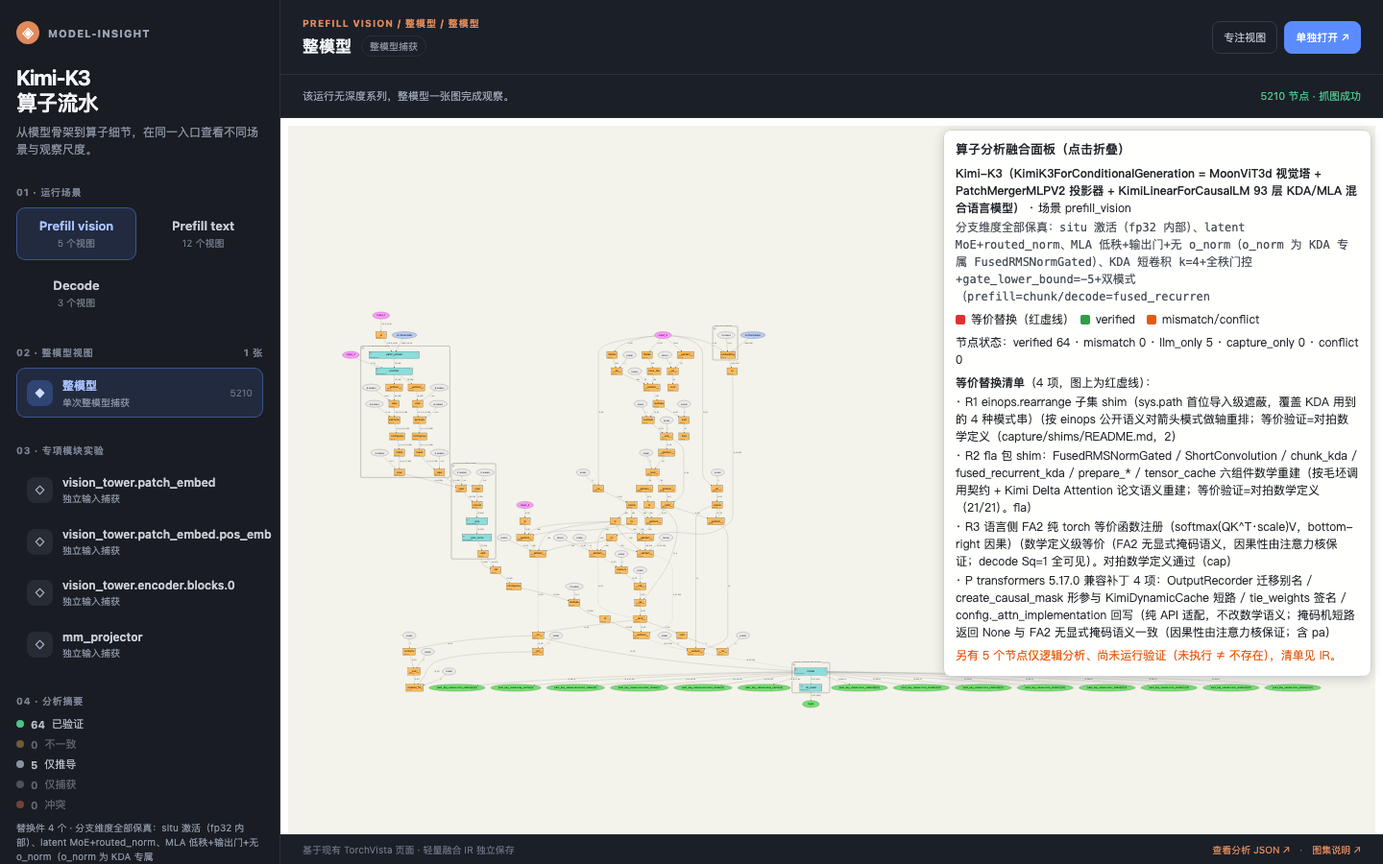
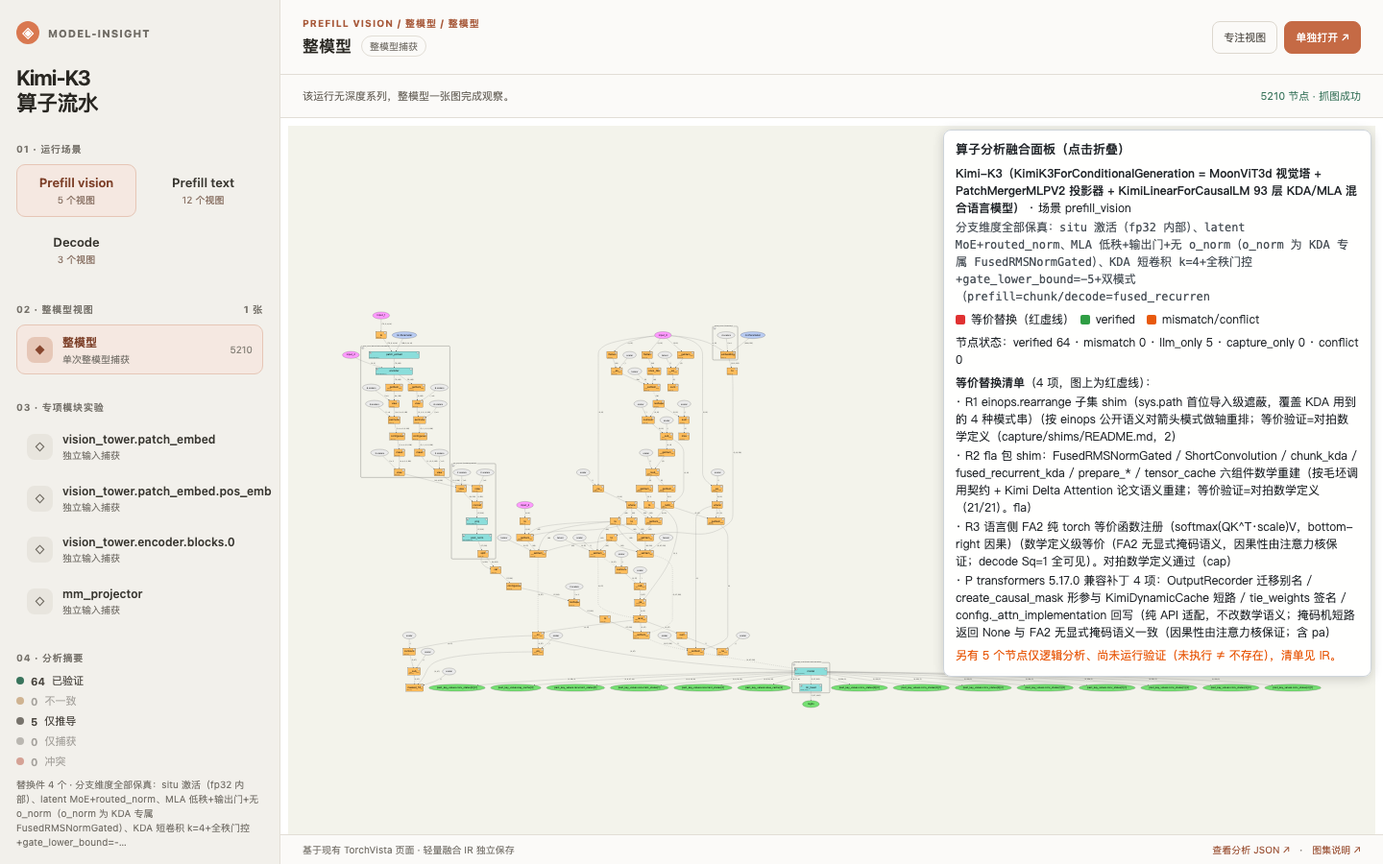
fix: 面板主题修正为 Claude 风格亮色（恢复手搓版定稿）
上一提交误将主题改判为暗色；用户定稿是 Codex demo 的亮色 Claude 风格。
render_index.py 主题部分整体恢复 d1aed61 版本（保留 dont_write_bytecode），
双面板重新生成——与 d1aed61 产物字节级一致（零漂移），tests 全绿，
preview.png 重截为亮色面板实际截图。

diff --git a/outputs/Kimi-K3/viz/index.html b/outputs/Kimi-K3/viz/index.html
@@ -5,8 +5,8 @@
 <meta name="viewport" content="width=device-width,initial-scale=1">
 <title>Kimi-K3 · 算子流水</title>
 <style>
-:root{font-family:Inter,-apple-system,BlinkMacSystemFont,"PingFang SC","Microsoft Yahei",sans-serif;color:#e8eaf0;background:#14161b;--panel:#191c22;--panel2:#20242c;--line:#2a2f3a;--muted:#8b93a3;--accent:#e08a5c;--blue:#5b8cff;--blue-soft:rgba(91,140,255,.13);--good:#4cc38a;--warn:#e0a35c}
-*{box-sizing:border-box}body{margin:0;min-height:100vh}button,a{font:inherit}button{cursor:pointer}a{color:inherit}.app{display:grid;grid-template-columns:292px minmax(0,1fr);height:100vh;min-height:580px}.rail{background:var(--panel);border-right:1px solid var(--line);overflow:auto;padding:22px 17px}.brand{display:flex;align-items:center;gap:9px;font-size:11px;letter-spacing:.09em;font-weight:750;color:#9aa3b5;text-transform:uppercase}.mark{width:24px;height:24px;display:grid;place-items:center;border-radius:50%;background:var(--accent);color:#fff;font-size:14px;letter-spacing:0}.rail h1{font-size:22px;line-height:1.2;letter-spacing:-.035em;margin:22px 0 8px;font-weight:650;color:#f2f4f8}.subtle{color:var(--muted);font-size:12px;line-height:1.55}.section{margin-top:27px}.section-head{display:flex;align-items:center;justify-content:space-between;color:#7a8294;font-size:10px;letter-spacing:.08em;font-weight:700;text-transform:uppercase;margin-bottom:9px}.tabs{display:grid;grid-template-columns:1fr 1fr;gap:7px}.tab,.item{border:1px solid transparent;background:transparent;color:#c8cdd8;border-radius:9px}.tab{padding:10px 7px;font-size:13px;font-weight:600}.tab:hover,.item:hover{background:#232833}.tab.active,.item.active{border-color:rgba(91,140,255,.45);background:var(--blue-soft);color:#a9c2ff;box-shadow:none}.tab small{display:block;font-size:10px;color:#6d7686;font-weight:450;margin-top:3px}.items{display:grid;gap:3px}.item{text-align:left;padding:9px 10px;display:flex;align-items:center;gap:10px;width:100%}.n{flex:0 0 27px;height:27px;border-radius:8px;display:grid;place-items:center;background:#262b34;color:#a8b0c0;font-size:12px;font-weight:650}.item.active .n{background:rgba(91,140,255,.28);color:#cddcff}.item strong{display:block;font-size:12px;font-weight:600}.item small{display:block;color:var(--muted);font-size:10px;margin-top:3px;line-height:1.25}.count{margin-left:auto;color:#6d7686;font-size:10px;white-space:nowrap}.empty{color:var(--muted);font-size:12px;border:1px dashed #3a404c;padding:12px;border-radius:9px}.stats{display:grid;gap:5px}.stat{display:flex;align-items:center;gap:7px;font-size:11px;color:#b6bdc9}.stat b{font-weight:650}.dot{width:8px;height:8px;border-radius:50%;flex:0 0 8px}.note{margin-top:9px;font-size:10px;line-height:1.5;color:var(--muted);cursor:help}.main{min-width:0;display:flex;flex-direction:column}.top{display:flex;justify-content:space-between;align-items:center;gap:14px;padding:17px 23px;border-bottom:1px solid var(--line);min-height:78px;background:#1b1f27}.eyebrow{color:var(--accent);font-size:10px;letter-spacing:.1em;text-transform:uppercase;font-weight:700}.heading{display:flex;align-items:center;gap:10px;margin-top:5px;flex-wrap:wrap}.heading h2{font-size:17px;margin:0;font-weight:620;color:#f2f4f8}.pill{border:1px solid var(--line);color:var(--muted);border-radius:50px;padding:3px 8px;font-size:10px}.topactions{display:flex;gap:7px;flex-shrink:0}.action{background:var(--blue);color:white;border:1px solid var(--blue);border-radius:8px;text-decoration:none;padding:8px 11px;font-size:11px}.action:hover{background:#6f9aff}.action.secondary{background:transparent;color:#b6bdc9;border-color:#343a46}.action.secondary:hover{background:#232833}.context{display:flex;gap:16px;align-items:center;justify-content:space-between;padding:10px 23px;border-bottom:1px solid var(--line);color:#9aa3b5;font-size:11px;min-height:45px;background:#1b1f27}.context .warning{color:var(--warn)}.context .good{color:var(--good)}.framewrap{position:relative;flex:1;min-height:0;background:#0f1115}.framewrap iframe{width:100%;height:100%;border:0;background:white}.loading{position:absolute;z-index:1;inset:0;display:grid;place-items:center;background:#0f1115;color:#7a8294;font-size:13px}.loading[hidden]{display:none}.foot{display:flex;justify-content:space-between;gap:12px;align-items:center;padding:8px 23px;border-top:1px solid var(--line);font-size:10px;color:#6d7686;background:#1b1f27}.foot a{color:var(--accent);text-decoration:none}.focused .rail{display:none}.focused .app{grid-template-columns:1fr}@media(max-width:850px){.app{grid-template-columns:1fr;height:auto;min-height:100vh}.rail{border-right:0;border-bottom:1px solid var(--line);max-height:290px;padding:14px}.rail h1{font-size:18px;margin:10px 0 3px}.rail .section{margin-top:14px}.items{grid-template-columns:repeat(2,minmax(0,1fr))}.item{padding:8px}.main{height:calc(100vh - 260px);min-height:450px}.top{padding:10px}.context,.foot{padding:8px 10px}.action{padding:7px}.topactions{gap:4px}}
+:root{font-family:Inter,-apple-system,BlinkMacSystemFont,"PingFang SC","Microsoft Yahei",sans-serif;color:#292722;background:#f8f7f4;--panel:#f2f0eb;--panel2:#ebe8e1;--line:#e2ded6;--muted:#77736c;--accent:#c56a45;--accent-soft:#f4e7df;--good:#39745c;--warn:#a66a26}
+*{box-sizing:border-box}body{margin:0;min-height:100vh}button,a{font:inherit}button{cursor:pointer}a{color:inherit}.app{display:grid;grid-template-columns:292px minmax(0,1fr);height:100vh;min-height:580px}.rail{background:var(--panel);border-right:1px solid var(--line);overflow:auto;padding:22px 17px}.brand{display:flex;align-items:center;gap:9px;font-size:11px;letter-spacing:.09em;font-weight:750;color:#716d66;text-transform:uppercase}.mark{width:24px;height:24px;display:grid;place-items:center;border-radius:50%;background:#d97850;color:#fff;font-size:14px;letter-spacing:0}.rail h1{font-size:22px;line-height:1.2;letter-spacing:-.035em;margin:22px 0 8px;font-weight:650}.subtle{color:var(--muted);font-size:12px;line-height:1.55}.section{margin-top:27px}.section-head{display:flex;align-items:center;justify-content:space-between;color:#77736c;font-size:10px;letter-spacing:.08em;font-weight:700;text-transform:uppercase;margin-bottom:9px}.tabs{display:grid;grid-template-columns:1fr 1fr;gap:7px}.tab,.item{border:1px solid transparent;background:transparent;color:#383630;border-radius:9px}.tab{padding:10px 7px;font-size:13px;font-weight:600}.tab:hover,.item:hover{background:#eae7e0}.tab.active,.item.active{border-color:#e6c6b6;background:#f5e8e1;color:#7d4029;box-shadow:none}.tab small{display:block;font-size:10px;color:#8f786b;font-weight:450;margin-top:3px}.items{display:grid;gap:3px}.item{text-align:left;padding:9px 10px;display:flex;align-items:center;gap:10px;width:100%}.n{flex:0 0 27px;height:27px;border-radius:8px;display:grid;place-items:center;background:#e8e5de;color:#706b62;font-size:12px;font-weight:650}.item.active .n{background:#e6c7b7;color:#87462e}.item strong{display:block;font-size:12px;font-weight:600}.item small{display:block;color:var(--muted);font-size:10px;margin-top:3px;line-height:1.25}.count{margin-left:auto;color:#8a857c;font-size:10px;white-space:nowrap}.empty{color:var(--muted);font-size:12px;border:1px dashed #d7d1c7;padding:12px;border-radius:9px}.stats{display:grid;gap:5px}.stat{display:flex;align-items:center;gap:7px;font-size:11px;color:#4c4842}.stat b{font-weight:650}.dot{width:8px;height:8px;border-radius:50%;flex:0 0 8px}.note{margin-top:9px;font-size:10px;line-height:1.5;color:var(--muted);cursor:help}.main{min-width:0;display:flex;flex-direction:column}.top{display:flex;justify-content:space-between;align-items:center;gap:14px;padding:17px 23px;border-bottom:1px solid var(--line);min-height:78px;background:#fbfaf8}.eyebrow{color:#a85a3b;font-size:10px;letter-spacing:.1em;text-transform:uppercase;font-weight:700}.heading{display:flex;align-items:center;gap:10px;margin-top:5px;flex-wrap:wrap}.heading h2{font-size:17px;margin:0;font-weight:620}.pill{border:1px solid #e2ded6;color:#77736c;border-radius:50px;padding:3px 8px;font-size:10px}.topactions{display:flex;gap:7px;flex-shrink:0}.action{background:#c56a45;color:white;border:1px solid #c56a45;border-radius:8px;text-decoration:none;padding:8px 11px;font-size:11px}.action:hover{background:#ad5938}.action.secondary{background:transparent;color:#57534d;border-color:#ddd8cf}.action.secondary:hover{background:#f0eee9}.context{display:flex;gap:16px;align-items:center;justify-content:space-between;padding:10px 23px;border-bottom:1px solid var(--line);color:#6e6961;font-size:11px;min-height:45px;background:#fbfaf8}.context .warning{color:var(--warn)}.context .good{color:var(--good)}.framewrap{position:relative;flex:1;min-height:0;background:#f0f1f2}.framewrap iframe{width:100%;height:100%;border:0;background:white}.loading{position:absolute;z-index:1;inset:0;display:grid;place-items:center;background:#f0f1f2;color:#686d72;font-size:13px}.loading[hidden]{display:none}.foot{display:flex;justify-content:space-between;gap:12px;align-items:center;padding:8px 23px;border-top:1px solid var(--line);font-size:10px;color:var(--muted);background:#fbfaf8}.foot a{color:#9e573b;text-decoration:none}.focused .rail{display:none}.focused .app{grid-template-columns:1fr}@media(max-width:850px){.app{grid-template-columns:1fr;height:auto;min-height:100vh}.rail{border-right:0;border-bottom:1px solid var(--line);max-height:290px;padding:14px}.rail h1{font-size:18px;margin:10px 0 3px}.rail .section{margin-top:14px}.items{grid-template-columns:repeat(2,minmax(0,1fr))}.item{padding:8px}.main{height:calc(100vh - 260px);min-height:450px}.top{padding:10px}.context,.foot{padding:8px 10px}.action{padding:7px}.topactions{gap:4px}}
 </style>
 </head>
 <body>
@@ -14,7 +14,6 @@
 <aside class="rail" aria-label="视图导航">
   <div class="brand"><span class="mark">◈</span> Model-Insight</div>
   <h1>Kimi-K3<br>算子流水</h1>
-  <div class="subtle">从模型骨架到算子细节，在同一入口查看不同场景与观察尺度。</div>
   <section class="section"><div class="section-head">01 · 运行场景</div><div class="tabs" id="scenarios"></div></section>
   <section class="section"><div class="section-head">02 · 整模型视图 <span id="depthCount"></span></div><div class="items" id="depths"></div></section>
   <section class="section"><div class="section-head">03 · 专项模块实验</div><div class="items" id="modules"></div></section>
@@ -30,7 +29,7 @@
 const VIEWS=[{"id":"macro_prefill_vision","file":"macro_prefill_vision.html","kind":"macro","scenario":"prefill_vision","depth":null,"target":null,"title":"整模型","nodes":5210,"status":"ok"},{"id":"macro_prefill_text","file":"macro_prefill_text.html","kind":"macro","scenario":"prefill_text","depth":null,"target":null,"title":"整模型","nodes":2528,"status":"ok"},{"id":"macro_decode","file":"macro_decode.html","kind":"macro","scenario":"decode","depth":null,"target":null,"title":"整模型","nodes":1444,"status":"ok"},{"id":"micro_vit_patch_embed","file":"micro_vit_patch_embed.html","kind":"micro","scenario":"prefill_vision","depth":0,"target":"vision_tower.patch_embed","title":"vision_tower.patch_embed","nodes":31,"status":"ok"},{"id":"micro_vit_pos_emb","file":"micro_vit_pos_emb.html","kind":"micro","scenario":"prefill_vision","depth":0,"target":"vision_tower.patch_embed.pos_emb","title":"vision_tower.patch_embed.pos_emb","nodes":16,"status":"ok"},{"id":"micro_vit_layer0","file":"micro_vit_layer0.html","kind":"micro","scenario":"prefill_vision","depth":0,"target":"vision_tower.encoder.blocks.0","title":"vision_tower.encoder.blocks.0","nodes":84,"status":"ok"},{"id":"micro_projector","file":"micro_projector.html","kind":"micro","scenario":"prefill_vision","depth":0,"target":"mm_projector","title":"mm_projector","nodes":18,"status":"ok"},{"id":"micro_layer_kda0","file":"micro_layer_kda0.html","kind":"micro","scenario":"prefill_text","depth":0,"target":"language_model.model.layers.0","title":"language_model.model.layers.0","nodes":612,"status":"ok"},{"id":"micro_layer_kda_moe1","file":"micro_layer_kda_moe1.html","kind":"micro","scenario":"prefill_text","depth":0,"target":"language_model.model.layers.1","title":"language_model.model.layers.1","nodes":810,"status":"ok"},{"id":"micro_layer_mla3","file":"micro_layer_mla3.html","kind":"micro","scenario":"prefill_text","depth":0,"target":"language_model.model.layers.3","title":"language_model.model.layers.3","nodes":374,"status":"ok"},{"id":"micro_attn_kda","file":"micro_attn_kda.html","kind":"micro","scenario":"prefill_text","depth":0,"target":"language_model.model.layers.0.self_attn","title":"language_model.model.layers.0.self_attn","nodes":521,"status":"ok"},{"id":"micro_attn_mla","file":"micro_attn_mla.html","kind":"micro","scenario":"prefill_text","depth":0,"target":"language_model.model.layers.3.self_attn","title":"language_model.model.layers.3.self_attn","nodes":85,"status":"ok"},{"id":"micro_attn_kda_decode","file":"micro_attn_kda_decode.html","kind":"micro","scenario":"decode","depth":0,"target":"language_model.model.layers.0.self_attn","title":"language_model.model.layers.0.self_attn","nodes":162,"status":"ok"},{"id":"micro_attn_mla_decode","file":"micro_attn_mla_decode.html","kind":"micro","scenario":"decode","depth":0,"target":"language_model.model.layers.3.self_attn","title":"language_model.model.layers.3.self_attn","nodes":89,"status":"ok"},{"id":"micro_moe_gate","file":"micro_moe_gate.html","kind":"micro","scenario":"prefill_text","depth":0,"target":"language_model.model.layers.1.block_sparse_moe.gate","title":"language_model.model.layers.1.block_sparse_moe.gate","nodes":25,"status":"ok"},{"id":"micro_expert0","file":"micro_expert0.html","kind":"micro","scenario":"prefill_text","depth":0,"target":"language_model.model.layers.1.block_sparse_moe.experts.0","title":"language_model.model.layers.1.block_sparse_moe.experts.0","nodes":27,"status":"ok"},{"id":"micro_mlp_dense","file":"micro_mlp_dense.html","kind":"micro","scenario":"prefill_text","depth":0,"target":"language_model.model.layers.0.mlp","title":"language_model.model.layers.0.mlp","nodes":27,"status":"ok"},{"id":"micro_embed","file":"micro_embed.html","kind":"micro","scenario":"prefill_text","depth":0,"target":"language_model.model.embed_tokens","title":"language_model.model.embed_tokens","nodes":5,"status":"ok"},{"id":"micro_norm","file":"micro_norm.html","kind":"micro","scenario":"prefill_text","depth":0,"target":"language_model.model.norm","title":"language_model.model.norm","nodes":14,"status":"ok"},{"id":"micro_lm_head","file":"micro_lm_head.html","kind":"micro","scenario":"prefill_text","depth":0,"target":"language_model.lm_head","title":"language_model.lm_head","nodes":4,"status":"ok"}];
 const DETAILS={"depthnull":{"title":"整模型","description":"单次整模型捕获","long":"该运行无深度系列，整模型一张图完成观察。"},"micro_vit_patch_embed":{"title":"vision_tower.patch_embed","description":"独立输入捕获","long":"使用单独构造的输入捕获 vision_tower.patch_embed；与整模型视图分别产生。"},"micro_vit_pos_emb":{"title":"vision_tower.patch_embed.pos_emb","description":"独立输入捕获","long":"使用单独构造的输入捕获 vision_tower.patch_embed.pos_emb；与整模型视图分别产生。"},"micro_vit_layer0":{"title":"vision_tower.encoder.blocks.0","description":"独立输入捕获","long":"使用单独构造的输入捕获 vision_tower.encoder.blocks.0；与整模型视图分别产生。"},"micro_projector":{"title":"mm_projector","description":"独立输入捕获","long":"使用单独构造的输入捕获 mm_projector；与整模型视图分别产生。"},"micro_layer_kda0":{"title":"language_model.model.layers.0","description":"独立输入捕获","long":"使用单独构造的输入捕获 language_model.model.layers.0；与整模型视图分别产生。"},"micro_layer_kda_moe1":{"title":"language_model.model.layers.1","description":"独立输入捕获","long":"使用单独构造的输入捕获 language_model.model.layers.1；与整模型视图分别产生。"},"micro_layer_mla3":{"title":"language_model.model.layers.3","description":"独立输入捕获","long":"使用单独构造的输入捕获 language_model.model.layers.3；与整模型视图分别产生。"},"micro_attn_kda":{"title":"language_model.model.layers.0.self_attn","description":"独立输入捕获","long":"使用单独构造的输入捕获 language_model.model.layers.0.self_attn；与整模型视图分别产生。"},"micro_attn_mla":{"title":"language_model.model.layers.3.self_attn","description":"独立输入捕获","long":"使用单独构造的输入捕获 language_model.model.layers.3.self_attn；与整模型视图分别产生。"},"micro_attn_kda_decode":{"title":"language_model.model.layers.0.self_attn","description":"独立输入捕获","long":"使用单独构造的输入捕获 language_model.model.layers.0.self_attn；与整模型视图分别产生。"},"micro_attn_mla_decode":{"title":"language_model.model.layers.3.self_attn","description":"独立输入捕获","long":"使用单独构造的输入捕获 language_model.model.layers.3.self_attn；与整模型视图分别产生。"},"micro_moe_gate":{"title":"language_model.model.layers.1.block_sparse_moe.gate","description":"独立输入捕获","long":"使用单独构造的输入捕获 language_model.model.layers.1.block_sparse_moe.gate；与整模型视图分别产生。"},"micro_expert0":{"title":"language_model.model.layers.1.block_sparse_moe.experts.0","description":"独立输入捕获","long":"使用单独构造的输入捕获 language_model.model.layers.1.block_sparse_moe.experts.0；与整模型视图分别产生。"},"micro_mlp_dense":{"title":"language_model.model.layers.0.mlp","description":"独立输入捕获","long":"使用单独构造的输入捕获 language_model.model.layers.0.mlp；与整模型视图分别产生。"},"micro_embed":{"title":"language_model.model.embed_tokens","description":"独立输入捕获","long":"使用单独构造的输入捕获 language_model.model.embed_tokens；与整模型视图分别产生。"},"micro_norm":{"title":"language_model.model.norm","description":"独立输入捕获","long":"使用单独构造的输入捕获 language_model.model.norm；与整模型视图分别产生。"},"micro_lm_head":{"title":"language_model.lm_head","description":"独立输入捕获","long":"使用单独构造的输入捕获 language_model.lm_head；与整模型视图分别产生。"}};
 const SUMMARY={"statuses":{"verified":64,"mismatch":0,"llm_only":5,"capture_only":0,"conflict":0},"totalNodes":69,"replacementCount":4,"replacementsFull":"· R1 einops.rearrange 子集 shim（sys.path 首位导入级遮蔽，覆盖 KDA 用到的 4 种模式串）\n· R2 fla 包 shim：FusedRMSNormGated / ShortConvolution / chunk_kda / fused_recurrent_kda / prepare_* / tensor_cache 六组件数学重建\n· R3 语言侧 FA2 纯 torch 等价函数注册（softmax(QK^T·scale)V，bottom-right 因果）\n· P transformers 5.17.0 兼容补丁 4 项：OutputRecorder 迁移别名 / create_causal_mask 形参与 KimiDynamicCache 短路 / tie_weights 签名 / config._attn_implementation 回写","scaleNote":"分支维度全部保真：situ 激活（fp32 内部）、latent MoE+routed_norm、MLA 低秩+输出门+无 o_norm（o_norm 为 KDA 专属 FusedRMSNormGated）、KDA 短卷积 k=4+全秩门控+gate_lower_bound=-…"};
-const STATUS_META=[["verified","已验证","#4cc38a"],["mismatch","不一致","#e0a35c"],["llm_only","仅推导","#8b93a3"],["capture_only","仅捕获","#8b93a3"],["conflict","冲突","#e06c5c"]];
+const STATUS_META=[["verified","已验证","#39745c"],["mismatch","不一致","#a66a26"],["llm_only","仅推导","#77736c"],["capture_only","仅捕获","#77736c"],["conflict","冲突","#b3452f"]];
 const $=id=>document.getElementById(id);
 const byId=Object.fromEntries(VIEWS.map(v=>[v.id,v]));
 const SCENARIOS=[...new Set(VIEWS.map(v=>v.scenario))].map(s=>({key:s,label:s.charAt(0).toUpperCase()+s.slice(1).replace(/_/g,' '),count:VIEWS.filter(v=>v.scenario===s).length}));

diff --git a/outputs/DeepSeek-V3.2/viz/index.html b/outputs/DeepSeek-V3.2/viz/index.html
@@ -5,8 +5,8 @@
 <meta name="viewport" content="width=device-width,initial-scale=1">
 <title>DeepSeek-V3.2 · 算子流水</title>
 <style>
-:root{font-family:Inter,-apple-system,BlinkMacSystemFont,"PingFang SC","Microsoft Yahei",sans-serif;color:#e8eaf0;background:#14161b;--panel:#191c22;--panel2:#20242c;--line:#2a2f3a;--muted:#8b93a3;--accent:#e08a5c;--blue:#5b8cff;--blue-soft:rgba(91,140,255,.13);--good:#4cc38a;--warn:#e0a35c}
-*{box-sizing:border-box}body{margin:0;min-height:100vh}button,a{font:inherit}button{cursor:pointer}a{color:inherit}.app{display:grid;grid-template-columns:292px minmax(0,1fr);height:100vh;min-height:580px}.rail{background:var(--panel);border-right:1px solid var(--line);overflow:auto;padding:22px 17px}.brand{display:flex;align-items:center;gap:9px;font-size:11px;letter-spacing:.09em;font-weight:750;color:#9aa3b5;text-transform:uppercase}.mark{width:24px;height:24px;display:grid;place-items:center;border-radius:50%;background:var(--accent);color:#fff;font-size:14px;letter-spacing:0}.rail h1{font-size:22px;line-height:1.2;letter-spacing:-.035em;margin:22px 0 8px;font-weight:650;color:#f2f4f8}.subtle{color:var(--muted);font-size:12px;line-height:1.55}.section{margin-top:27px}.section-head{display:flex;align-items:center;justify-content:space-between;color:#7a8294;font-size:10px;letter-spacing:.08em;font-weight:700;text-transform:uppercase;margin-bottom:9px}.tabs{display:grid;grid-template-columns:1fr 1fr;gap:7px}.tab,.item{border:1px solid transparent;background:transparent;color:#c8cdd8;border-radius:9px}.tab{padding:10px 7px;font-size:13px;font-weight:600}.tab:hover,.item:hover{background:#232833}.tab.active,.item.active{border-color:rgba(91,140,255,.45);background:var(--blue-soft);color:#a9c2ff;box-shadow:none}.tab small{display:block;font-size:10px;color:#6d7686;font-weight:450;margin-top:3px}.items{display:grid;gap:3px}.item{text-align:left;padding:9px 10px;display:flex;align-items:center;gap:10px;width:100%}.n{flex:0 0 27px;height:27px;border-radius:8px;display:grid;place-items:center;background:#262b34;color:#a8b0c0;font-size:12px;font-weight:650}.item.active .n{background:rgba(91,140,255,.28);color:#cddcff}.item strong{display:block;font-size:12px;font-weight:600}.item small{display:block;color:var(--muted);font-size:10px;margin-top:3px;line-height:1.25}.count{margin-left:auto;color:#6d7686;font-size:10px;white-space:nowrap}.empty{color:var(--muted);font-size:12px;border:1px dashed #3a404c;padding:12px;border-radius:9px}.stats{display:grid;gap:5px}.stat{display:flex;align-items:center;gap:7px;font-size:11px;color:#b6bdc9}.stat b{font-weight:650}.dot{width:8px;height:8px;border-radius:50%;flex:0 0 8px}.note{margin-top:9px;font-size:10px;line-height:1.5;color:var(--muted);cursor:help}.main{min-width:0;display:flex;flex-direction:column}.top{display:flex;justify-content:space-between;align-items:center;gap:14px;padding:17px 23px;border-bottom:1px solid var(--line);min-height:78px;background:#1b1f27}.eyebrow{color:var(--accent);font-size:10px;letter-spacing:.1em;text-transform:uppercase;font-weight:700}.heading{display:flex;align-items:center;gap:10px;margin-top:5px;flex-wrap:wrap}.heading h2{font-size:17px;margin:0;font-weight:620;color:#f2f4f8}.pill{border:1px solid var(--line);color:var(--muted);border-radius:50px;padding:3px 8px;font-size:10px}.topactions{display:flex;gap:7px;flex-shrink:0}.action{background:var(--blue);color:white;border:1px solid var(--blue);border-radius:8px;text-decoration:none;padding:8px 11px;font-size:11px}.action:hover{background:#6f9aff}.action.secondary{background:transparent;color:#b6bdc9;border-color:#343a46}.action.secondary:hover{background:#232833}.context{display:flex;gap:16px;align-items:center;justify-content:space-between;padding:10px 23px;border-bottom:1px solid var(--line);color:#9aa3b5;font-size:11px;min-height:45px;background:#1b1f27}.context .warning{color:var(--warn)}.context .good{color:var(--good)}.framewrap{position:relative;flex:1;min-height:0;background:#0f1115}.framewrap iframe{width:100%;height:100%;border:0;background:white}.loading{position:absolute;z-index:1;inset:0;display:grid;place-items:center;background:#0f1115;color:#7a8294;font-size:13px}.loading[hidden]{display:none}.foot{display:flex;justify-content:space-between;gap:12px;align-items:center;padding:8px 23px;border-top:1px solid var(--line);font-size:10px;color:#6d7686;background:#1b1f27}.foot a{color:var(--accent);text-decoration:none}.focused .rail{display:none}.focused .app{grid-template-columns:1fr}@media(max-width:850px){.app{grid-template-columns:1fr;height:auto;min-height:100vh}.rail{border-right:0;border-bottom:1px solid var(--line);max-height:290px;padding:14px}.rail h1{font-size:18px;margin:10px 0 3px}.rail .section{margin-top:14px}.items{grid-template-columns:repeat(2,minmax(0,1fr))}.item{padding:8px}.main{height:calc(100vh - 260px);min-height:450px}.top{padding:10px}.context,.foot{padding:8px 10px}.action{padding:7px}.topactions{gap:4px}}
+:root{font-family:Inter,-apple-system,BlinkMacSystemFont,"PingFang SC","Microsoft Yahei",sans-serif;color:#292722;background:#f8f7f4;--panel:#f2f0eb;--panel2:#ebe8e1;--line:#e2ded6;--muted:#77736c;--accent:#c56a45;--accent-soft:#f4e7df;--good:#39745c;--warn:#a66a26}
+*{box-sizing:border-box}body{margin:0;min-height:100vh}button,a{font:inherit}button{cursor:pointer}a{color:inherit}.app{display:grid;grid-template-columns:292px minmax(0,1fr);height:100vh;min-height:580px}.rail{background:var(--panel);border-right:1px solid var(--line);overflow:auto;padding:22px 17px}.brand{display:flex;align-items:center;gap:9px;font-size:11px;letter-spacing:.09em;font-weight:750;color:#716d66;text-transform:uppercase}.mark{width:24px;height:24px;display:grid;place-items:center;border-radius:50%;background:#d97850;color:#fff;font-size:14px;letter-spacing:0}.rail h1{font-size:22px;line-height:1.2;letter-spacing:-.035em;margin:22px 0 8px;font-weight:650}.subtle{color:var(--muted);font-size:12px;line-height:1.55}.section{margin-top:27px}.section-head{display:flex;align-items:center;justify-content:space-between;color:#77736c;font-size:10px;letter-spacing:.08em;font-weight:700;text-transform:uppercase;margin-bottom:9px}.tabs{display:grid;grid-template-columns:1fr 1fr;gap:7px}.tab,.item{border:1px solid transparent;background:transparent;color:#383630;border-radius:9px}.tab{padding:10px 7px;font-size:13px;font-weight:600}.tab:hover,.item:hover{background:#eae7e0}.tab.active,.item.active{border-color:#e6c6b6;background:#f5e8e1;color:#7d4029;box-shadow:none}.tab small{display:block;font-size:10px;color:#8f786b;font-weight:450;margin-top:3px}.items{display:grid;gap:3px}.item{text-align:left;padding:9px 10px;display:flex;align-items:center;gap:10px;width:100%}.n{flex:0 0 27px;height:27px;border-radius:8px;display:grid;place-items:center;background:#e8e5de;color:#706b62;font-size:12px;font-weight:650}.item.active .n{background:#e6c7b7;color:#87462e}.item strong{display:block;font-size:12px;font-weight:600}.item small{display:block;color:var(--muted);font-size:10px;margin-top:3px;line-height:1.25}.count{margin-left:auto;color:#8a857c;font-size:10px;white-space:nowrap}.empty{color:var(--muted);font-size:12px;border:1px dashed #d7d1c7;padding:12px;border-radius:9px}.stats{display:grid;gap:5px}.stat{display:flex;align-items:center;gap:7px;font-size:11px;color:#4c4842}.stat b{font-weight:650}.dot{width:8px;height:8px;border-radius:50%;flex:0 0 8px}.note{margin-top:9px;font-size:10px;line-height:1.5;color:var(--muted);cursor:help}.main{min-width:0;display:flex;flex-direction:column}.top{display:flex;justify-content:space-between;align-items:center;gap:14px;padding:17px 23px;border-bottom:1px solid var(--line);min-height:78px;background:#fbfaf8}.eyebrow{color:#a85a3b;font-size:10px;letter-spacing:.1em;text-transform:uppercase;font-weight:700}.heading{display:flex;align-items:center;gap:10px;margin-top:5px;flex-wrap:wrap}.heading h2{font-size:17px;margin:0;font-weight:620}.pill{border:1px solid #e2ded6;color:#77736c;border-radius:50px;padding:3px 8px;font-size:10px}.topactions{display:flex;gap:7px;flex-shrink:0}.action{background:#c56a45;color:white;border:1px solid #c56a45;border-radius:8px;text-decoration:none;padding:8px 11px;font-size:11px}.action:hover{background:#ad5938}.action.secondary{background:transparent;color:#57534d;border-color:#ddd8cf}.action.secondary:hover{background:#f0eee9}.context{display:flex;gap:16px;align-items:center;justify-content:space-between;padding:10px 23px;border-bottom:1px solid var(--line);color:#6e6961;font-size:11px;min-height:45px;background:#fbfaf8}.context .warning{color:var(--warn)}.context .good{color:var(--good)}.framewrap{position:relative;flex:1;min-height:0;background:#f0f1f2}.framewrap iframe{width:100%;height:100%;border:0;background:white}.loading{position:absolute;z-index:1;inset:0;display:grid;place-items:center;background:#f0f1f2;color:#686d72;font-size:13px}.loading[hidden]{display:none}.foot{display:flex;justify-content:space-between;gap:12px;align-items:center;padding:8px 23px;border-top:1px solid var(--line);font-size:10px;color:var(--muted);background:#fbfaf8}.foot a{color:#9e573b;text-decoration:none}.focused .rail{display:none}.focused .app{grid-template-columns:1fr}@media(max-width:850px){.app{grid-template-columns:1fr;height:auto;min-height:100vh}.rail{border-right:0;border-bottom:1px solid var(--line);max-height:290px;padding:14px}.rail h1{font-size:18px;margin:10px 0 3px}.rail .section{margin-top:14px}.items{grid-template-columns:repeat(2,minmax(0,1fr))}.item{padding:8px}.main{height:calc(100vh - 260px);min-height:450px}.top{padding:10px}.context,.foot{padding:8px 10px}.action{padding:7px}.topactions{gap:4px}}
 </style>
 </head>
 <body>
@@ -14,7 +14,6 @@
 <aside class="rail" aria-label="视图导航">
   <div class="brand"><span class="mark">◈</span> Model-Insight</div>
   <h1>DeepSeek-V3.2<br>算子流水</h1>
-  <div class="subtle">从模型骨架到算子细节，在同一入口查看不同场景与观察尺度。</div>
   <section class="section"><div class="section-head">01 · 运行场景</div><div class="tabs" id="scenarios"></div></section>
   <section class="section"><div class="section-head">02 · 整模型观察尺度 <span id="depthCount"></span></div><div class="items" id="depths"></div></section>
   <section class="section"><div class="section-head">03 · 专项模块实验</div><div class="items" id="modules"></div></section>
@@ -30,7 +29,7 @@
 const VIEWS=[{"id":"macro_prefill_d0","file":"macro_prefill_d0.html","kind":"macro","scenario":"prefill","depth":0,"target":null,"title":"模型骨架","nodes":20,"status":"ok"},{"id":"macro_prefill_d1","file":"macro_prefill_d1.html","kind":"macro","scenario":"prefill","depth":1,"target":null,"title":"层内主链","nodes":48,"status":"ok"},{"id":"macro_prefill_d2","file":"macro_prefill_d2.html","kind":"macro","scenario":"prefill","depth":2,"target":null,"title":"功能模块","nodes":555,"status":"ok"},{"id":"macro_prefill_d3","file":"macro_prefill_d3.html","kind":"macro","scenario":"prefill","depth":3,"target":null,"title":"内部运算","nodes":1623,"status":"ok"},{"id":"macro_decode_d0","file":"macro_decode_d0.html","kind":"macro","scenario":"decode","depth":0,"target":null,"title":"模型骨架","nodes":17,"status":"ok"},{"id":"macro_decode_d1","file":"macro_decode_d1.html","kind":"macro","scenario":"decode","depth":1,"target":null,"title":"层内主链","nodes":45,"status":"ok"},{"id":"macro_decode_d2","file":"macro_decode_d2.html","kind":"macro","scenario":"decode","depth":2,"target":null,"title":"功能模块","nodes":644,"status":"ok"},{"id":"macro_decode_d3","file":"macro_decode_d3.html","kind":"macro","scenario":"decode","depth":3,"target":null,"title":"内部运算","nodes":1692,"status":"ok"},{"id":"macro_prefill_d4","file":"macro_prefill_d4.html","kind":"macro","scenario":"prefill","depth":4,"target":null,"title":"算子细节","nodes":3817,"status":"ok"},{"id":"macro_decode_d4","file":"macro_decode_d4.html","kind":"macro","scenario":"decode","depth":4,"target":null,"title":"算子细节","nodes":3658,"status":"ok"},{"id":"micro_dense_block","file":"micro_dense_block.html","kind":"micro","scenario":"prefill","depth":0,"target":"layers.0","title":"layers.0","nodes":11,"status":"ok"},{"id":"micro_moe_block","file":"micro_moe_block.html","kind":"micro","scenario":"prefill","depth":0,"target":"layers.3","title":"layers.3","nodes":11,"status":"ok"},{"id":"micro_mla_attn","file":"micro_mla_attn.html","kind":"micro","scenario":"prefill","depth":0,"target":"layers.0.attn","title":"layers.0.attn","nodes":115,"status":"ok"}];
 const DETAILS={"depth0":{"title":"模型骨架","description":"Embedding → Block → Norm → Head","long":"先看整个模型的主数据流与层级边界。"},"depth1":{"title":"层内主链","description":"Attention、FFN、Norm","long":"展开每层的注意力、前馈和归一化模块。"},"depth2":{"title":"功能模块","description":"层内各功能子模块","long":"查看注意力子模块、前馈、门控与专家等计算构成。"},"depth3":{"title":"内部运算","description":"线性层与逐算子计算点","long":"查看子模块内部的计算点与张量形状。"},"depth4":{"title":"算子细节","description":"全部可见调用点","long":"显示最细粒度算子，图较大，初次加载可能需要等待。"},"micro_dense_block":{"title":"layers.0","description":"独立输入捕获","long":"使用单独构造的输入捕获 layers.0；与整模型视图分别产生。"},"micro_moe_block":{"title":"layers.3","description":"独立输入捕获","long":"使用单独构造的输入捕获 layers.3；与整模型视图分别产生。"},"micro_mla_attn":{"title":"layers.0.attn","description":"独立输入捕获","long":"使用单独构造的输入捕获 layers.0.attn；与整模型视图分别产生。"}};
 const SUMMARY={"statuses":{"verified":66,"mismatch":1,"llm_only":1,"capture_only":0,"conflict":0},"totalNodes":68,"replacementCount":4,"replacementsFull":"· kernel.act_quant（tilelang 实现，毛坯 inference/kernel.py L87-111 fn + L36-84 kernel）\n· kernel.fp8_gemm（tilelang 实现，毛坯 inference/kernel.py L171-196 fn + L114-168 kernel）\n· kernel.fp8_index（tilelang 实现，毛坯 inference/kernel.py L254-274 fn + L199-251 kernel）\n· fast_hadamard_transform.hadamard_transform（CUDA 库，model.py L428-432 rotate_activation 内延迟 import，L472-473 对 Indexer q/k 调用）","scaleNote":"分支维度保真、规模维度缩水（不冒充全量）。671B 全量 → 抓图实例化对照：vocab_size 129280→1024；n_layers 61→4（层 0-2 稠密 + 层 3 MoE，保留真实层型边界）；n_heads 128→8（头结构不变：nope 128 / rop…"};
-const STATUS_META=[["verified","已验证","#4cc38a"],["mismatch","不一致","#e0a35c"],["llm_only","仅推导","#8b93a3"],["capture_only","仅捕获","#8b93a3"],["conflict","冲突","#e06c5c"]];
+const STATUS_META=[["verified","已验证","#39745c"],["mismatch","不一致","#a66a26"],["llm_only","仅推导","#77736c"],["capture_only","仅捕获","#77736c"],["conflict","冲突","#b3452f"]];
 const $=id=>document.getElementById(id);
 const byId=Object.fromEntries(VIEWS.map(v=>[v.id,v]));
 const SCENARIOS=[...new Set(VIEWS.map(v=>v.scenario))].map(s=>({key:s,label:s.charAt(0).toUpperCase()+s.slice(1).replace(/_/g,' '),count:VIEWS.filter(v=>v.scenario===s).length}));

diff --git a/agent-kit_ops-analysis/scripts/render_index.py b/agent-kit_ops-analysis/scripts/render_index.py
@@ -1,8 +1,8 @@
 #!/usr/bin/env python3
 """render_index.py — 生成 viz/index.html 集成面板（模型无关）。
 
-面板 UI 为统一暗色主题（橙色品牌/眉标 + 蓝色交互选中态），由本生成器
-整体产出、随重跑重算，禁手改。数据全部实时读取、零硬编码：
+以 DeepSeek-V3.2 手搓面板为模板：CSS 与交互 JS 全部保留并改造为模型无关，
+数据全部实时读取、零硬编码：
   - capture/capture_summary.json   作业清单（id/status/nodes/html）
   - capture/<id>.measured.json     每作业元数据（kind/scenario/target）
   - fusion/final_ir.json           模型名、五态统计、替换件、缩水声明
@@ -34,59 +34,57 @@ def fail(msg: str) -> None:
 # ---------------------------------------------------------------- 模板（源自手搓面板，JS 交互全保留）
 
 CSS = (
-    # 暗色主题（定版）：以 Codex demo 预览图为视觉基准——深色框架、
-    # 橙色品牌/眉标、蓝色交互选中态；TorchVista 图页保持原生亮色，嵌入深色框架
     ":root{font-family:Inter,-apple-system,BlinkMacSystemFont,\"PingFang SC\",\"Microsoft Yahei\",sans-serif;"
-    "color:#e8eaf0;background:#14161b;--panel:#191c22;--panel2:#20242c;--line:#2a2f3a;--muted:#8b93a3;"
-    "--accent:#e08a5c;--blue:#5b8cff;--blue-soft:rgba(91,140,255,.13);--good:#4cc38a;--warn:#e0a35c}\n"
+    "color:#292722;background:#f8f7f4;--panel:#f2f0eb;--panel2:#ebe8e1;--line:#e2ded6;--muted:#77736c;"
+    "--accent:#c56a45;--accent-soft:#f4e7df;--good:#39745c;--warn:#a66a26}\n"
     "*{box-sizing:border-box}body{margin:0;min-height:100vh}button,a{font:inherit}button{cursor:pointer}a{color:inherit}"
     ".app{display:grid;grid-template-columns:292px minmax(0,1fr);height:100vh;min-height:580px}"
     ".rail{background:var(--panel);border-right:1px solid var(--line);overflow:auto;padding:22px 17px}"
-    ".brand{display:flex;align-items:center;gap:9px;font-size:11px;letter-spacing:.09em;font-weight:750;color:#9aa3b5;text-transform:uppercase}"
-    ".mark{width:24px;height:24px;display:grid;place-items:center;border-radius:50%;background:var(--accent);color:#fff;font-size:14px;letter-spacing:0}"
-    ".rail h1{font-size:22px;line-height:1.2;letter-spacing:-.035em;margin:22px 0 8px;font-weight:650;color:#f2f4f8}"
+    ".brand{display:flex;align-items:center;gap:9px;font-size:11px;letter-spacing:.09em;font-weight:750;color:#716d66;text-transform:uppercase}"
+    ".mark{width:24px;height:24px;display:grid;place-items:center;border-radius:50%;background:#d97850;color:#fff;font-size:14px;letter-spacing:0}"
+    ".rail h1{font-size:22px;line-height:1.2;letter-spacing:-.035em;margin:22px 0 8px;font-weight:650}"
     ".subtle{color:var(--muted);font-size:12px;line-height:1.55}"
     ".section{margin-top:27px}"
-    ".section-head{display:flex;align-items:center;justify-content:space-between;color:#7a8294;font-size:10px;letter-spacing:.08em;font-weight:700;text-transform:uppercase;margin-bottom:9px}"
+    ".section-head{display:flex;align-items:center;justify-content:space-between;color:#77736c;font-size:10px;letter-spacing:.08em;font-weight:700;text-transform:uppercase;margin-bottom:9px}"
     ".tabs{display:grid;grid-template-columns:1fr 1fr;gap:7px}"
-    ".tab,.item{border:1px solid transparent;background:transparent;color:#c8cdd8;border-radius:9px}"
+    ".tab,.item{border:1px solid transparent;background:transparent;color:#383630;border-radius:9px}"
     ".tab{padding:10px 7px;font-size:13px;font-weight:600}"
-    ".tab:hover,.item:hover{background:#232833}"
-    ".tab.active,.item.active{border-color:rgba(91,140,255,.45);background:var(--blue-soft);color:#a9c2ff;box-shadow:none}"
-    ".tab small{display:block;font-size:10px;color:#6d7686;font-weight:450;margin-top:3px}"
+    ".tab:hover,.item:hover{background:#eae7e0}"
+    ".tab.active,.item.active{border-color:#e6c6b6;background:#f5e8e1;color:#7d4029;box-shadow:none}"
+    ".tab small{display:block;font-size:10px;color:#8f786b;font-weight:450;margin-top:3px}"
     ".items{display:grid;gap:3px}"
     ".item{text-align:left;padding:9px 10px;display:flex;align-items:center;gap:10px;width:100%}"
-    ".n{flex:0 0 27px;height:27px;border-radius:8px;display:grid;place-items:center;background:#262b34;color:#a8b0c0;font-size:12px;font-weight:650}"
-    ".item.active .n{background:rgba(91,140,255,.28);color:#cddcff}"
+    ".n{flex:0 0 27px;height:27px;border-radius:8px;display:grid;place-items:center;background:#e8e5de;color:#706b62;font-size:12px;font-weight:650}"
+    ".item.active .n{background:#e6c7b7;color:#87462e}"
     ".item strong{display:block;font-size:12px;font-weight:600}"
     ".item small{display:block;color:var(--muted);font-size:10px;margin-top:3px;line-height:1.25}"
-    ".count{margin-left:auto;color:#6d7686;font-size:10px;white-space:nowrap}"
-    ".empty{color:var(--muted);font-size:12px;border:1px dashed #3a404c;padding:12px;border-radius:9px}"
+    ".count{margin-left:auto;color:#8a857c;font-size:10px;white-space:nowrap}"
+    ".empty{color:var(--muted);font-size:12px;border:1px dashed #d7d1c7;padding:12px;border-radius:9px}"
     ".stats{display:grid;gap:5px}"
-    ".stat{display:flex;align-items:center;gap:7px;font-size:11px;color:#b6bdc9}"
+    ".stat{display:flex;align-items:center;gap:7px;font-size:11px;color:#4c4842}"
     ".stat b{font-weight:650}"
     ".dot{width:8px;height:8px;border-radius:50%;flex:0 0 8px}"
     ".note{margin-top:9px;font-size:10px;line-height:1.5;color:var(--muted);cursor:help}"
     ".main{min-width:0;display:flex;flex-direction:column}"
-    ".top{display:flex;justify-content:space-between;align-items:center;gap:14px;padding:17px 23px;border-bottom:1px solid var(--line);min-height:78px;background:#1b1f27}"
-    ".eyebrow{color:var(--accent);font-size:10px;letter-spacing:.1em;text-transform:uppercase;font-weight:700}"
+    ".top{display:flex;justify-content:space-between;align-items:center;gap:14px;padding:17px 23px;border-bottom:1px solid var(--line);min-height:78px;background:#fbfaf8}"
+    ".eyebrow{color:#a85a3b;font-size:10px;letter-spacing:.1em;text-transform:uppercase;font-weight:700}"
     ".heading{display:flex;align-items:center;gap:10px;margin-top:5px;flex-wrap:wrap}"
-    ".heading h2{font-size:17px;margin:0;font-weight:620;color:#f2f4f8}"
-    ".pill{border:1px solid var(--line);color:var(--muted);border-radius:50px;padding:3px 8px;font-size:10px}"
+    ".heading h2{font-size:17px;margin:0;font-weight:620}"
+    ".pill{border:1px solid #e2ded6;color:#77736c;border-radius:50px;padding:3px 8px;font-size:10px}"
     ".topactions{display:flex;gap:7px;flex-shrink:0}"
-    ".action{background:var(--blue);color:white;border:1px solid var(--blue);border-radius:8px;text-decoration:none;padding:8px 11px;font-size:11px}"
-    ".action:hover{background:#6f9aff}"
-    ".action.secondary{background:transparent;color:#b6bdc9;border-color:#343a46}"
-    ".action.secondary:hover{background:#232833}"
-    ".context{display:flex;gap:16px;align-items:center;justify-content:space-between;padding:10px 23px;border-bottom:1px solid var(--line);color:#9aa3b5;font-size:11px;min-height:45px;background:#1b1f27}"
+    ".action{background:#c56a45;color:white;border:1px solid #c56a45;border-radius:8px;text-decoration:none;padding:8px 11px;font-size:11px}"
+    ".action:hover{background:#ad5938}"
+    ".action.secondary{background:transparent;color:#57534d;border-color:#ddd8cf}"
+    ".action.secondary:hover{background:#f0eee9}"
+    ".context{display:flex;gap:16px;align-items:center;justify-content:space-between;padding:10px 23px;border-bottom:1px solid var(--line);color:#6e6961;font-size:11px;min-height:45px;background:#fbfaf8}"
     ".context .warning{color:var(--warn)}"
     ".context .good{color:var(--good)}"
-    ".framewrap{position:relative;flex:1;min-height:0;background:#0f1115}"
+    ".framewrap{position:relative;flex:1;min-height:0;background:#f0f1f2}"
     ".framewrap iframe{width:100%;height:100%;border:0;background:white}"
-    ".loading{position:absolute;z-index:1;inset:0;display:grid;place-items:center;background:#0f1115;color:#7a8294;font-size:13px}"
+    ".loading{position:absolute;z-index:1;inset:0;display:grid;place-items:center;background:#f0f1f2;color:#686d72;font-size:13px}"
     ".loading[hidden]{display:none}"
-    ".foot{display:flex;justify-content:space-between;gap:12px;align-items:center;padding:8px 23px;border-top:1px solid var(--line);font-size:10px;color:#6d7686;background:#1b1f27}"
-    ".foot a{color:var(--accent);text-decoration:none}"
+    ".foot{display:flex;justify-content:space-between;gap:12px;align-items:center;padding:8px 23px;border-top:1px solid var(--line);font-size:10px;color:var(--muted);background:#fbfaf8}"
+    ".foot a{color:#9e573b;text-decoration:none}"
     ".focused .rail{display:none}.focused .app{grid-template-columns:1fr}"
     "@media(max-width:850px){.app{grid-template-columns:1fr;height:auto;min-height:100vh}"
     ".rail{border-right:0;border-bottom:1px solid var(--line);max-height:290px;padding:14px}"
@@ -111,7 +109,6 @@ __CSS__
 <aside class="rail" aria-label="视图导航">
   <div class="brand"><span class="mark">◈</span> Model-Insight</div>
   <h1>__MODEL__<br>算子流水</h1>
-  <div class="subtle">从模型骨架到算子细节，在同一入口查看不同场景与观察尺度。</div>
   <section class="section"><div class="section-head">01 · 运行场景</div><div class="tabs" id="scenarios"></div></section>
   <section class="section"><div class="section-head">02 · __DEPTH_SECTION__ <span id="depthCount"></span></div><div class="items" id="depths"></div></section>
   <section class="section"><div class="section-head">03 · 专项模块实验</div><div class="items" id="modules"></div></section>
@@ -127,7 +124,7 @@ __CSS__
 const VIEWS=__VIEWS__;
 const DETAILS=__DETAILS__;
 const SUMMARY=__SUMMARY__;
-const STATUS_META=[["verified","已验证","#4cc38a"],["mismatch","不一致","#e0a35c"],["llm_only","仅推导","#8b93a3"],["capture_only","仅捕获","#8b93a3"],["conflict","冲突","#e06c5c"]];
+const STATUS_META=[["verified","已验证","#39745c"],["mismatch","不一致","#a66a26"],["llm_only","仅推导","#77736c"],["capture_only","仅捕获","#77736c"],["conflict","冲突","#b3452f"]];
 const $=id=>document.getElementById(id);
 const byId=Object.fromEntries(VIEWS.map(v=>[v.id,v]));
 const SCENARIOS=[...new Set(VIEWS.map(v=>v.scenario))].map(s=>({key:s,label:s.charAt(0).toUpperCase()+s.slice(1).replace(/_/g,' '),count:VIEWS.filter(v=>v.scenario===s).length}));

diff --git a/agent-kit_ops-analysis/SKILL.md b/agent-kit_ops-analysis/SKILL.md
@@ -107,7 +107,7 @@ capture_only 补分析或说明、缩水声明合并、conflict 诚实保留。
 ```
 
 把注入后的 HTML 复制到 `viz/`（保留 capture/ 原件）。`render_index.py` 随后
-生成 `viz/index.html` 集成面板与 `viz/views.json`（统一暗色主题由生成器保证）：
+生成 `viz/index.html` 集成面板与 `viz/views.json`（亮色 Claude 风格主题由生成器保证）：
 数据实时读取 capture_summary 与 final_ir，五态统计与替换件数禁手改这两个文件
 （重跑即重算）。写 `viz/README.md`：以 index.html 为入口，说明每个 HTML 的
 场景/层级、面板与标记的读法。
